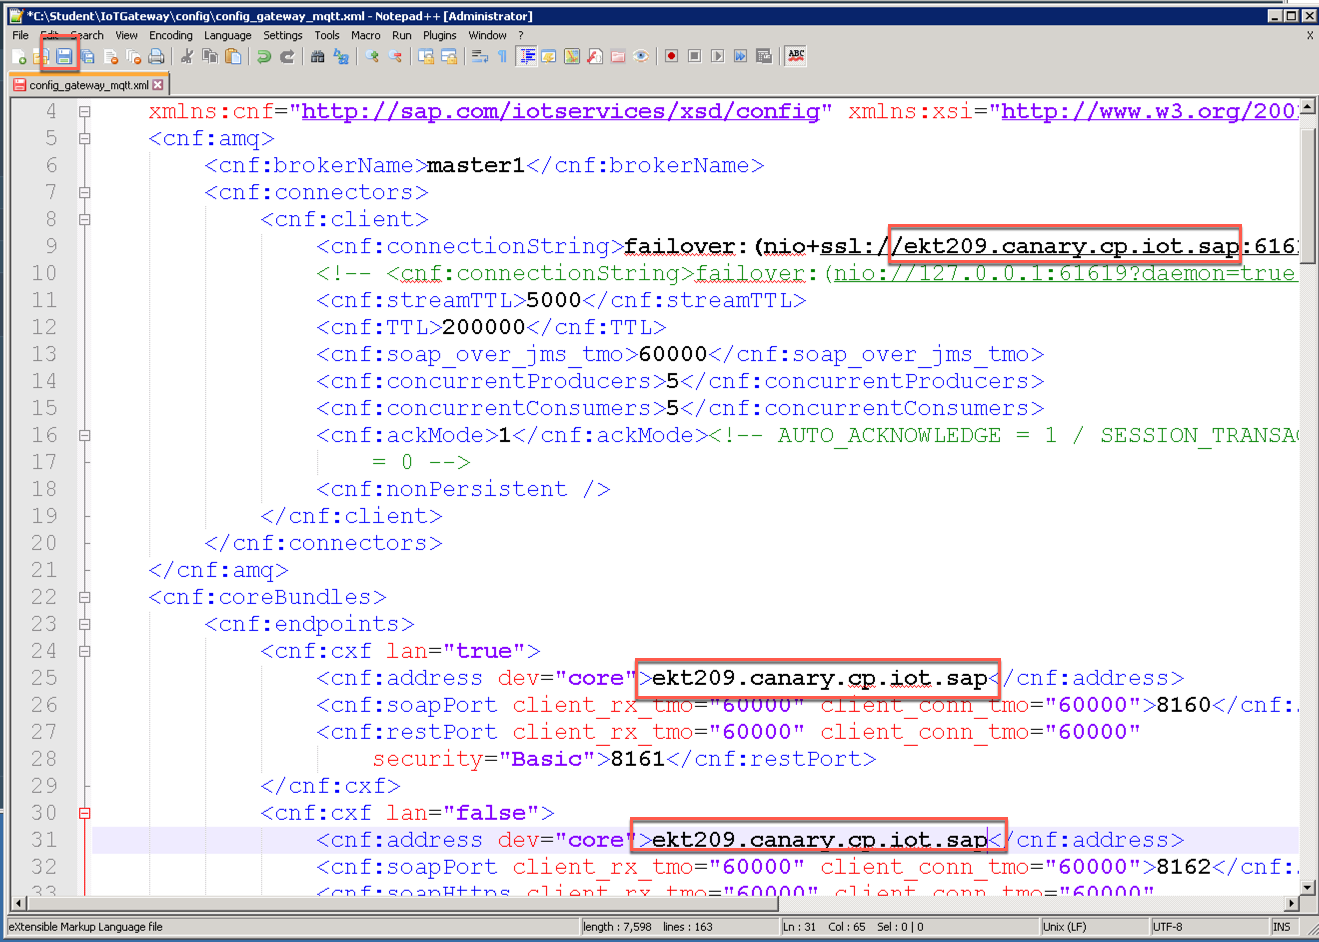
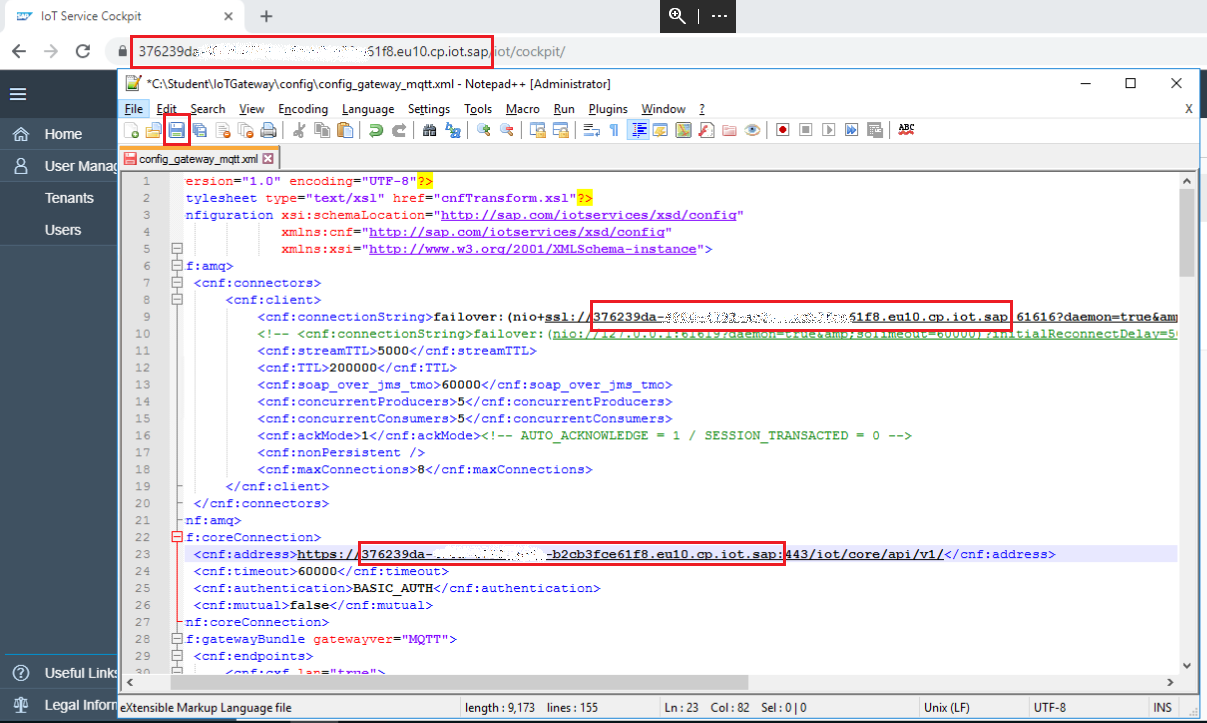
PowerWeek2018

diff --git a/Exercise_02/Exercise_02.md b/Exercise_02/Exercise_02.md
@@ -105,7 +105,7 @@ The Internet of Things service cockpit is the user interface of the Internet of 
 1.	Right click on the *config\_gateway\_mqtt.xml* file in the *config* folder of your Gateway Edge installation and choose **Edit with Notepad++**  
 	![](images/16.png)
 
-1.	Just for the two tags **amq** and **coreBundles** replace all the occurrences of the IP string **127.0.0.1** with the **\<HOST\_NAME\>** of your IoT Service (you should have just 3 occurrences)  
+1.	Just for the two tags **<cnf:connectionString>** and **<cnf:address>** replace the IP string **127.0.0.1** with the **\<HOST\_NAME\>** of your IoT Service (you should have just 2 occurrences)  
 	![](images/17.png)
 
 1.	You should get something like this. Remember to **save** the file  
@@ -117,8 +117,8 @@ The Internet of Things service cockpit is the user interface of the Internet of 
 1. Copy the generated code in the clipboard  
 	![](images/20.png)
 
-1. Search for the tag `<cnf:gateway>` in the *config\_gateway\_mqtt.xml* file and change it to
-`<cnf:gateway gatewayAlternateId="<<< generated code>>> ">` where **<<< generated code >>>** must be replaced with the code you copied in the clipboard removing all the included space characters: you need to keep just the letters and numbers. Then **save** the file  
+1. Search for the tag **<cnf:gateway>** in the *config\_gateway\_mqtt.xml* file and change it to
+`<cnf:gateway gatewayAlternateId="<<< generated code>>>">` where **<<< generated code >>>** must be replaced with the code you copied in the clipboard removing all the included space characters: you need to keep just the letters and numbers. Then **save** the file  
 	![](images/21.png)
 
 1.	Go back to the terminal window and execute the command `gateway.bat` to start the Gateway Edge onboarding process  
